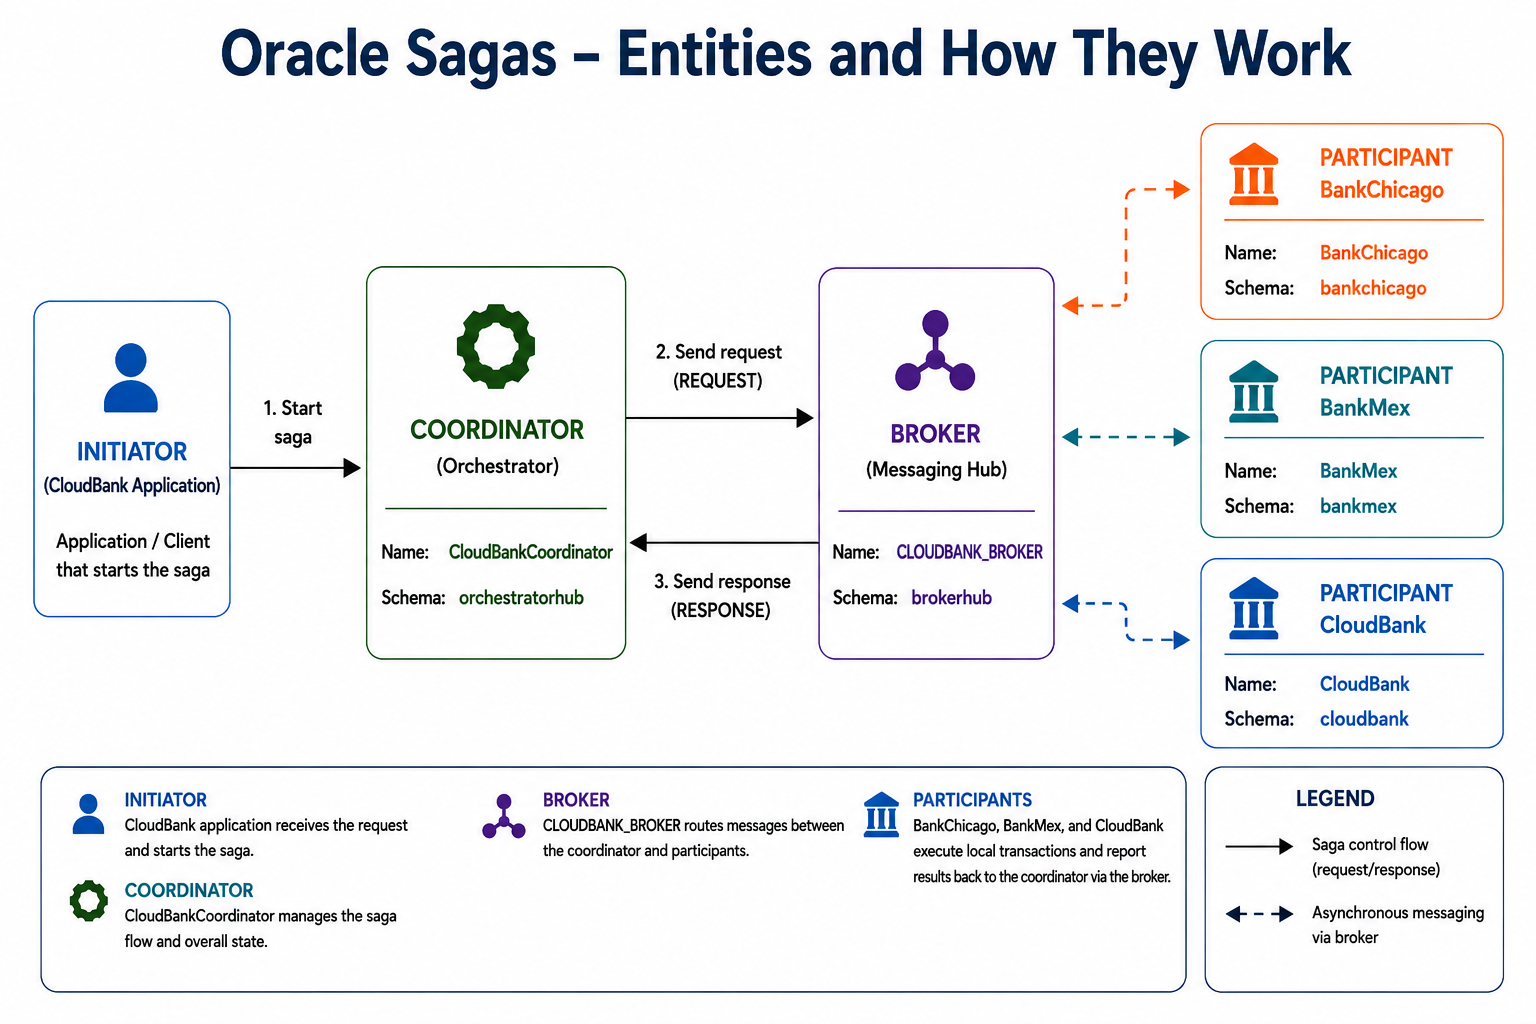
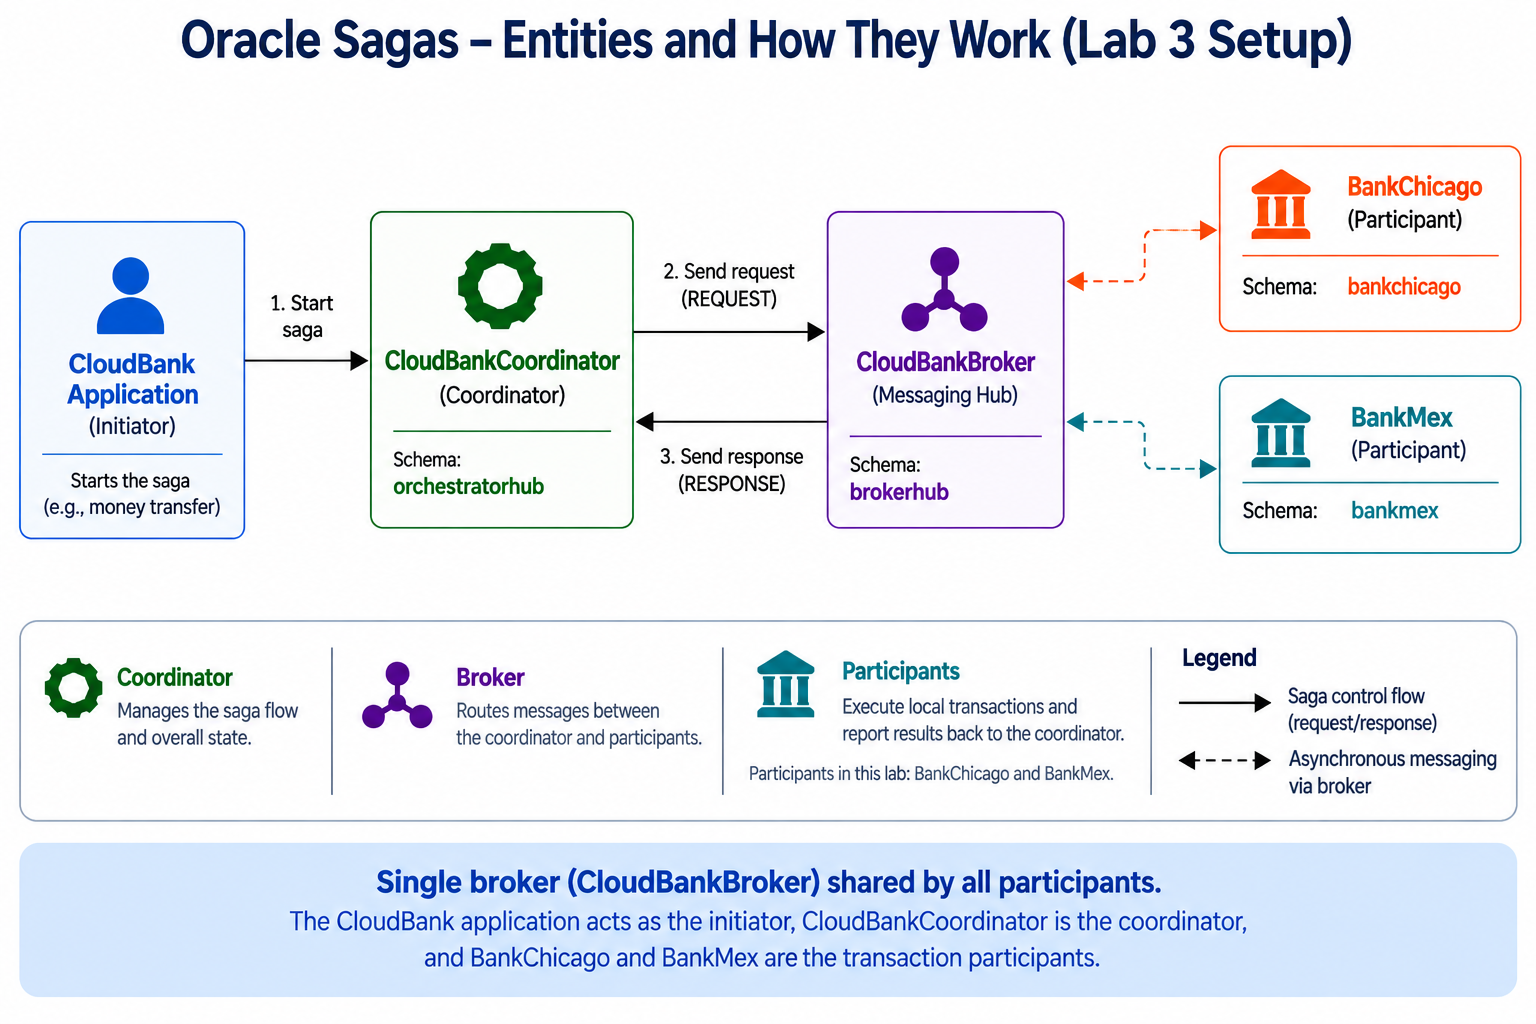
Added corrections

diff --git a/l1-introduction/introduction.md b/l1-introduction/introduction.md
@@ -59,7 +59,7 @@ Hence, a better strategy is to model the transaction as a **Saga**, where each s
 
 ---
 
-The **Saga Pattern** is a sequence of **local transactions**, where each transaction updates data within a single service, and subsequent steps are triggered by messaging. The **Saga Pattern** is an architectural pattern that breaks a long-running transaction into a sequence of **smaller, independent sub-transactions**, each with a corresponding **compensating transaction**. If one of the steps fails, a series of **compensating transactions** are executed to undo the previous operations.
+The **Saga Pattern** is an architectural approach for managing a long-running distributed transaction as a sequence of smaller, independent local transactions. Each transaction updates data within one service, and messaging triggers the next step. If a step fails, compensating transactions are executed to reverse the business effects of the steps that already completed.
 
 ### Key Concepts:
 
@@ -73,6 +73,16 @@ The **Saga Pattern** is a sequence of **local transactions**, where each transac
 - **No global locks**
 - **Eventually consistent**
 - **Scalable and fault-tolerant**
+
+### Core Saga Roles:
+
+The Saga Pattern uses the following roles to coordinate a distributed workflow and preserve business consistency:
+
+- **Initiator Service:** Receives the business request, starts the Saga, and orchestrates its execution.
+- **Saga Coordinator:** Tracks the overall outcome of the Saga.
+- **Participant Service:** Performs an independent local transaction, owns its local data, and provides a compensating action when needed.
+
+The **Saga Broker** is supporting infrastructure rather than a business participant. It acts as the message hub that propagates Saga events between the coordinator and participant services.
 
 ---
 
@@ -97,7 +107,7 @@ Oracle Sagas allow developers to:
 - Monitor saga execution states.
 - Scale across PDBs or databases using TEQ and DB links.
 
-The diagram below illustrates this architecture: an Initiator Service starts the saga, the Saga Coordinator orchestrates execution, and each participant service can compensate independently if a step fails.
+Oracle Sagas provides native Oracle Database support for the Initiator, Coordinator, and Participant roles introduced in Task 2. The following diagram shows how they interact during a distributed workflow. Services A through D represent generic participant services; the diagram focuses on the Saga lifecycle and compensation rather than the underlying messaging infrastructure.
 
 ![Oracle Saga Pattern](./images/OracleSagas.svg "Oracle Saga Pattern")
 
